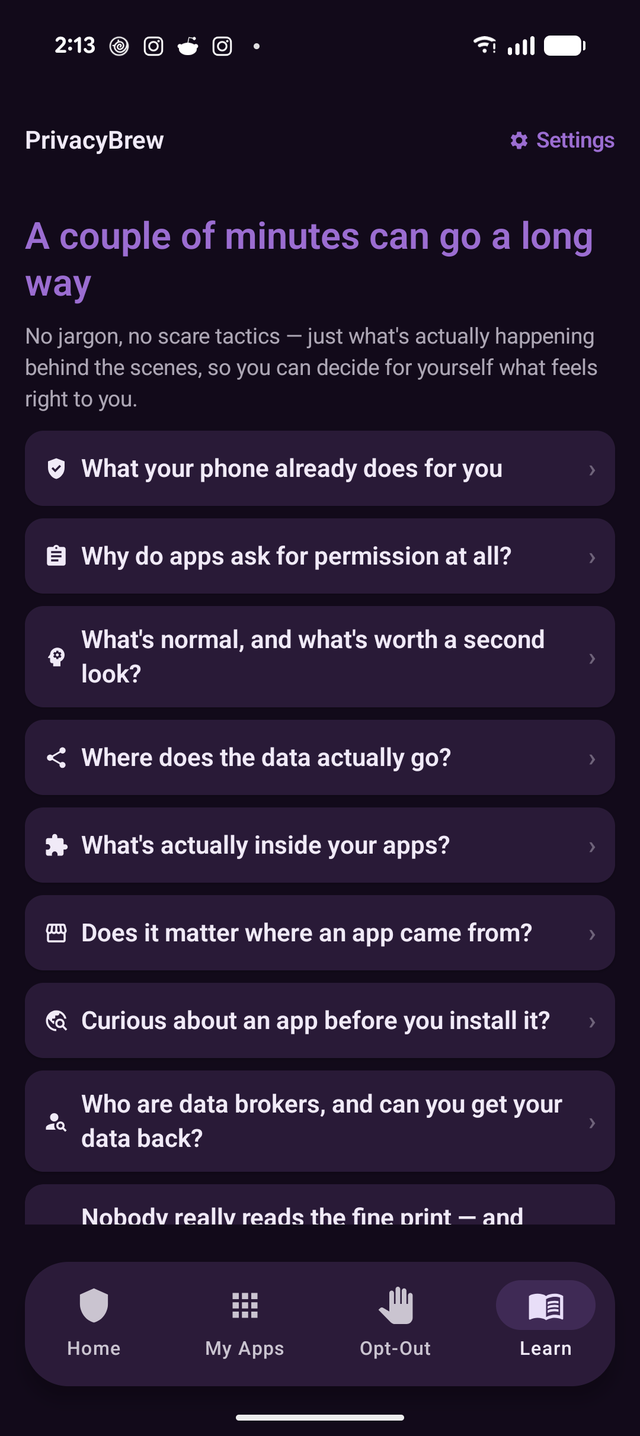
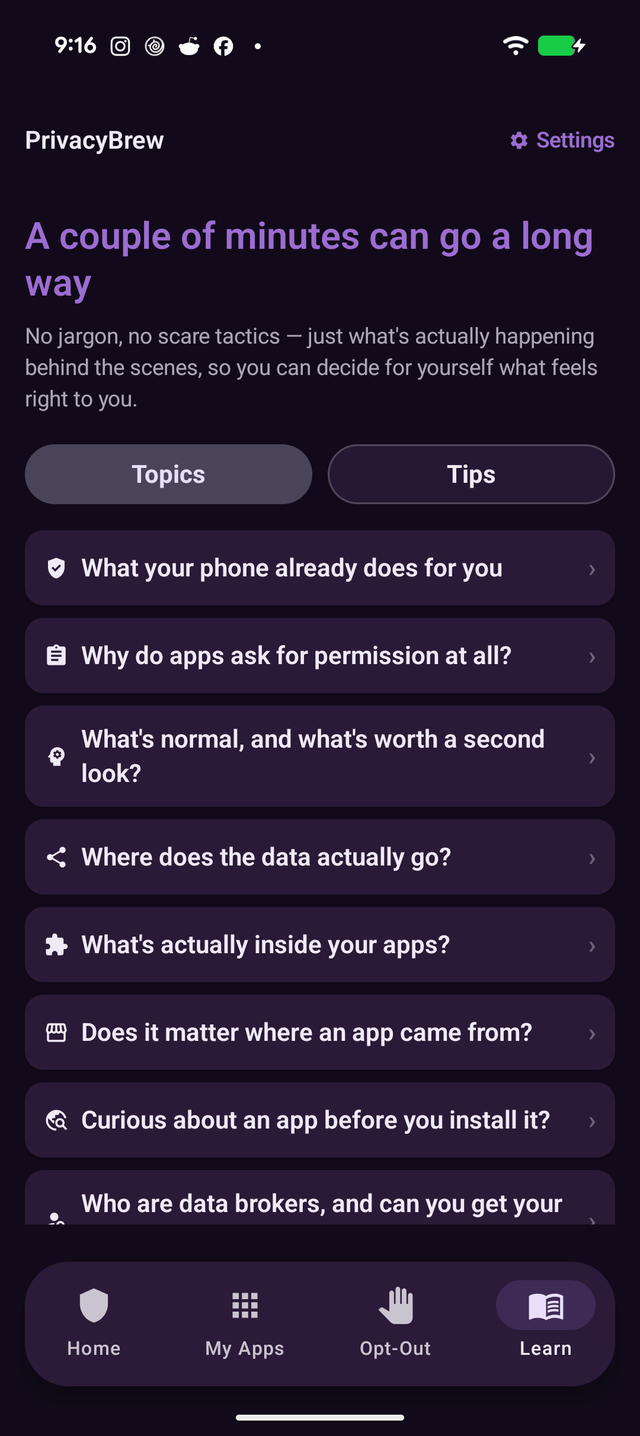
Update screenshots and copy for Opt-Out redesign and Privacy Tips
The app's Opt-Out tab was redesigned as 3 tappable summary cards
(California DROP, Data Broker Sites, Data & Privacy Requests) instead
of one long always-expanded page, and Learn gained a Topics/Tips
toggle for the new Privacy Tips section. Recaptured both screenshots
and retitled the Opt-Out feature card from "Data-broker opt-out" to
"Opt-out & data requests" to reflect the broader scope; updated its
alt text to match.

diff --git a/index.html b/index.html
@@ -113,9 +113,9 @@
             <div class="card-icon">
               <svg viewBox="0 0 24 24" fill="none" stroke-width="2" stroke-linecap="round" stroke-linejoin="round"><path d="M3 21V10M9 21V6M15 21v-8M21 21V3"/></svg>
             </div>
-            <h3>Data-broker opt-out</h3>
+            <h3>Opt-out & data requests</h3>
           </div>
-          <div class="shot-wrap"><img src="assets/img/screenshots/optout.png" alt="Opt-Out tab listing data broker sites"></div>
+          <div class="shot-wrap"><img src="assets/img/screenshots/optout.png" alt="Opt-Out tab with California DROP, data broker sites, and data request cards"></div>
         </div>
 
         <div class="shot-gallery-item">
